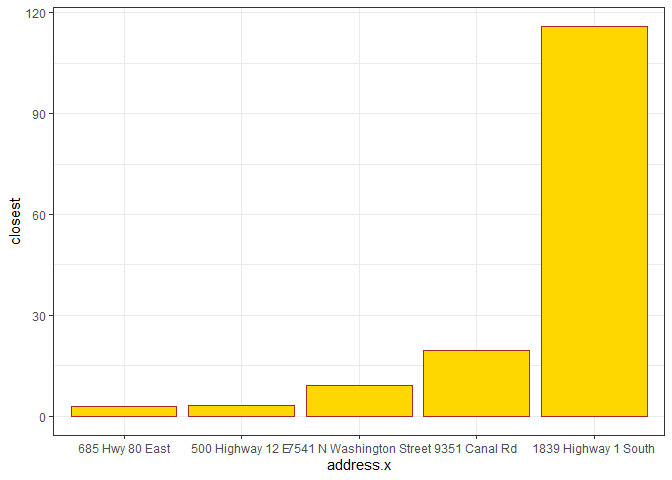
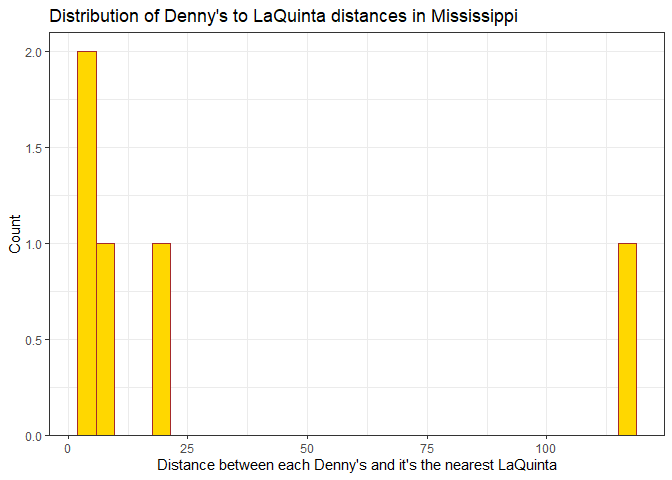
Finished lab 5

Changed region(s): [[0.0, 0.0, 0.9688, 1.0]]

diff --git a/lab-05.md b/lab-05.md
@@ -124,8 +124,12 @@ ak_mindist <- dn_lq_ak %>%
 Let’s summarize the distance between each Denny’s in Alaska and each
 one’s nearest LaQuinta Inn. The average distance from a given Denny’s to
 a LaQuinta Inn is 4.4. For any given Denny’s in Alaska, you are at most
-about 6 units(?) away from LaQuinta Inn; and if you’re at the luckiest
-Denny’s of all, you are only 2 units away from a LaQuinta.
+about 6 km away from LaQuinta Inn; and if you’re at the luckiest Denny’s
+of all, you are only 2 km away from a LaQuinta.
+
+I made a histogram to visualize the distribution of distances from each
+Denny’s and its nearest LaQuinta, rendered in beautiful Denny’s gold!
+It’s not too exciting, because there are only 3 locations…
 
 ``` r
 ak_mindist %>%
@@ -147,17 +151,25 @@ ak_mindist <- ak_mindist %>%
   mutate(address.x = factor(address.x, levels = address.x))
   
 #plotting
-ggplot(ak_mindist, aes(x = address.x, y = closest))+
-  geom_bar(stat="identity", color = "brown", fill = "gold")+
-  theme_bw()
+ggplot(ak_mindist, aes(x = closest))+
+  geom_histogram(color = "brown", fill = "gold")+
+  scale_y_continuous(
+    expand = c(0, 0),
+    limits = c(0, 2))+
+  theme_bw()+
+  labs(title = "Distribution of Denny's to LaQuinta distances in Alaska", y = "Count", x = "Distance between each Denny's and it's the nearest LaQuinta (km)")
 ```
+
+    ## `stat_bin()` using `bins = 30`. Pick better value with `binwidth`.
 
 ![](lab-05_files/figure-gfm/summarize-distances-1.png)<!-- -->
 
 ### Exercise 9
 
-Now, we repeat the whole process for North Carolina. \[add commentary as
-needed\]
+Now, we repeat the whole process for North Carolina. There’s a nicer
+selection of locations now, and we can see that there’s quite a spread,
+where some Denny’s have a LaQuinta very nearby, but a substantial number
+of Denny’s in NC are more than 100 km away from a LaQuinta.
 
 ``` r
 dennys_nc <- dennys %>%
@@ -212,20 +224,26 @@ nc_mindist <- nc_mindist %>%
   arrange(closest) %>%
   mutate(address.x = factor(address.x, levels = address.x))
 
-ggplot(nc_mindist, aes(x = address.x, y = closest))+
-  geom_bar(stat="identity", color = "brown", fill = "gold")+
-  theme_bw()
+ggplot(nc_mindist, aes(x = closest))+
+  geom_histogram(color = "brown", fill = "gold")+
+  scale_y_continuous(
+    expand = c(0, 0),
+    limits = c(0, 3.5))+
+  theme_bw()+
+  labs(title = "Distribution of Denny's to LaQuinta distances in North Carolina", y = "Count", x = "Distance between each Denny's and it's the nearest LaQuinta (km)")
 ```
+
+    ## `stat_bin()` using `bins = 30`. Pick better value with `binwidth`.
 
 ![](lab-05_files/figure-gfm/plotting-nc-1.png)<!-- -->
 
-``` r
-#BEN - FIX X-AXIS VALUES
-```
-
 ### Exercise 10
 
-Now, we repeat the whole process for Texas. \[add commentary as needed\]
+Now, we repeat the whole process for Texas. A couple of things are
+striking. First, there are a ton of Denny’s in Texas! Second, a huge
+chunk of the Denny’s in Texas are only a few kilometers away from a
+LaQuinta, and only a tiny few Denny’s are more than 20 km from a
+LaQuinta.
 
 ``` r
 dennys_tx <- dennys %>%
@@ -280,20 +298,24 @@ tx_mindist <- tx_mindist %>%
   arrange(closest) %>%
   mutate(address.x = factor(address.x, levels = address.x))
 
-ggplot(tx_mindist, aes(x = address.x, y = closest))+
-  geom_bar(stat="identity", color = "brown", fill = "gold")+
-  theme_bw()
+ggplot(tx_mindist, aes(x = closest))+
+  geom_histogram(binwidth = 1, color = "brown", fill = "gold")+
+  scale_y_continuous(
+    expand = c(0, 0),
+    limits = c(0, 40))+
+  theme_bw()+
+  labs(title = "Distribution of Denny's to LaQuinta distances in Texas", y = "Count", x = "Distance between each Denny's and it's the nearest LaQuinta (km)")
 ```
 
 ![](lab-05_files/figure-gfm/plotting-tx-1.png)<!-- -->
 
-``` r
-#BEN - FIX X-AXIS VALUES
-```
-
 ### Exercise 11
 
-Okay, now let’s try it one more time with my home state, Mississippi
+Okay, now let’s try it one more time with my home state, Mississippi.
+This one is a little bit like Alaska, because there aren’t very many
+Denny’s in Mississippi. Of those, it looks like a couple of them are
+quite close to a LaQuinta, one of them is about 20 km away, and the last
+one is more than 100 km away.
 
 ``` r
 dennys_ms <- dennys %>%
@@ -348,17 +370,22 @@ ms_mindist <- ms_mindist %>%
   arrange(closest) %>%
   mutate(address.x = factor(address.x, levels = address.x))
 
-ggplot(ms_mindist, aes(x = address.x, y = closest))+
-  geom_bar(stat="identity", color = "brown", fill = "gold")+
-  theme_bw()
+ggplot(ms_mindist, aes(x = closest))+
+  geom_histogram(color = "brown", fill = "gold")+
+  scale_y_continuous(
+    expand = c(0, 0),
+    limit = c(0, 2.1))+
+  theme_bw()+
+  labs(title = "Distribution of Denny's to LaQuinta distances in Mississippi", y = "Count", x = "Distance between each Denny's and it's the nearest LaQuinta")
 ```
+
+    ## `stat_bin()` using `bins = 30`. Pick better value with `binwidth`.
 
 ![](lab-05_files/figure-gfm/plotting-ms-1.png)<!-- -->
 
-``` r
-#BEN - FIX X-AXIS VALUES
-```
+### Exercise 12
 
-### Exercise 11
-
-\[add commentary\]
+Mitch Hedberg’s joke seems to hold the most true for Texas, because so
+many Denny’s are within 5 km of the nearest LaQuinta! Alaska is a close
+second, except there are so few Denny’s there that it seems kind of
+irrelevant.
